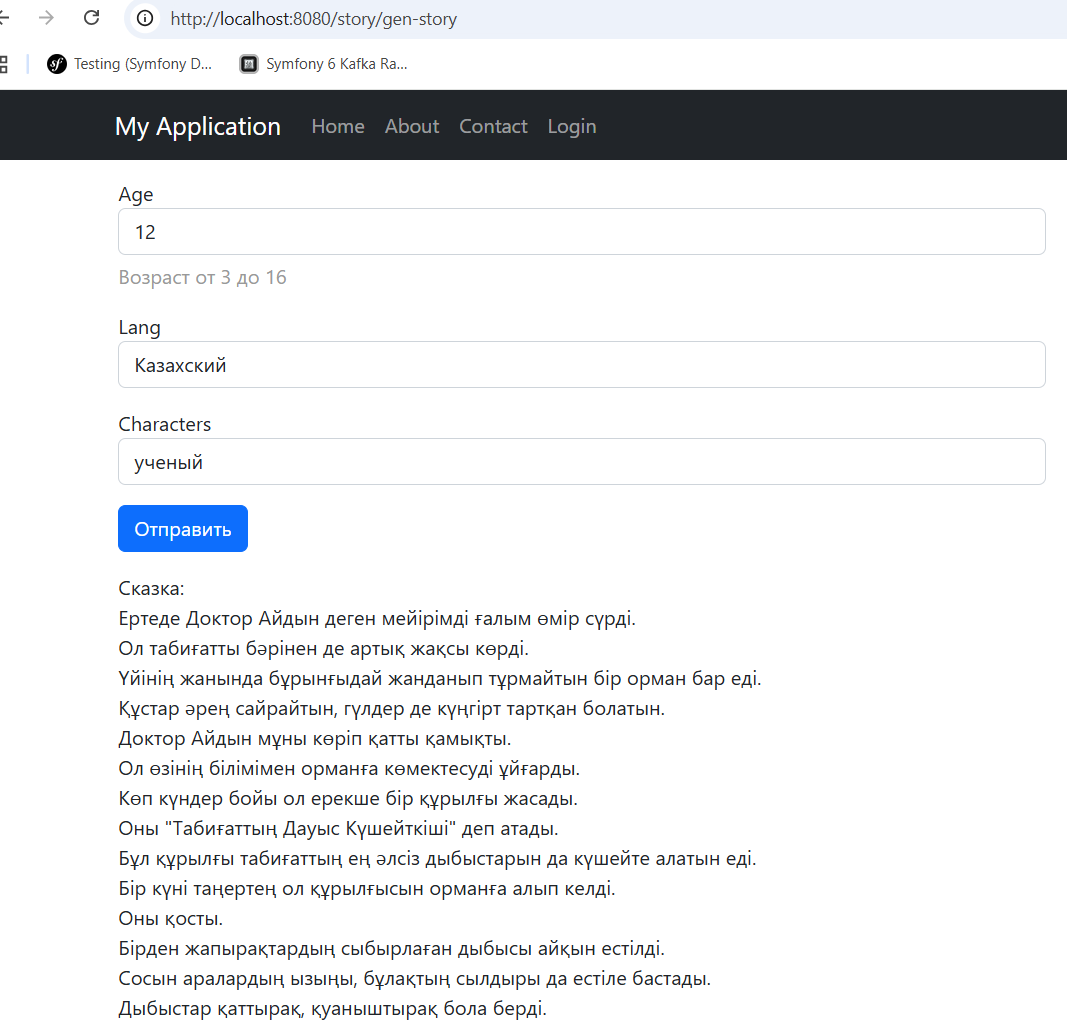
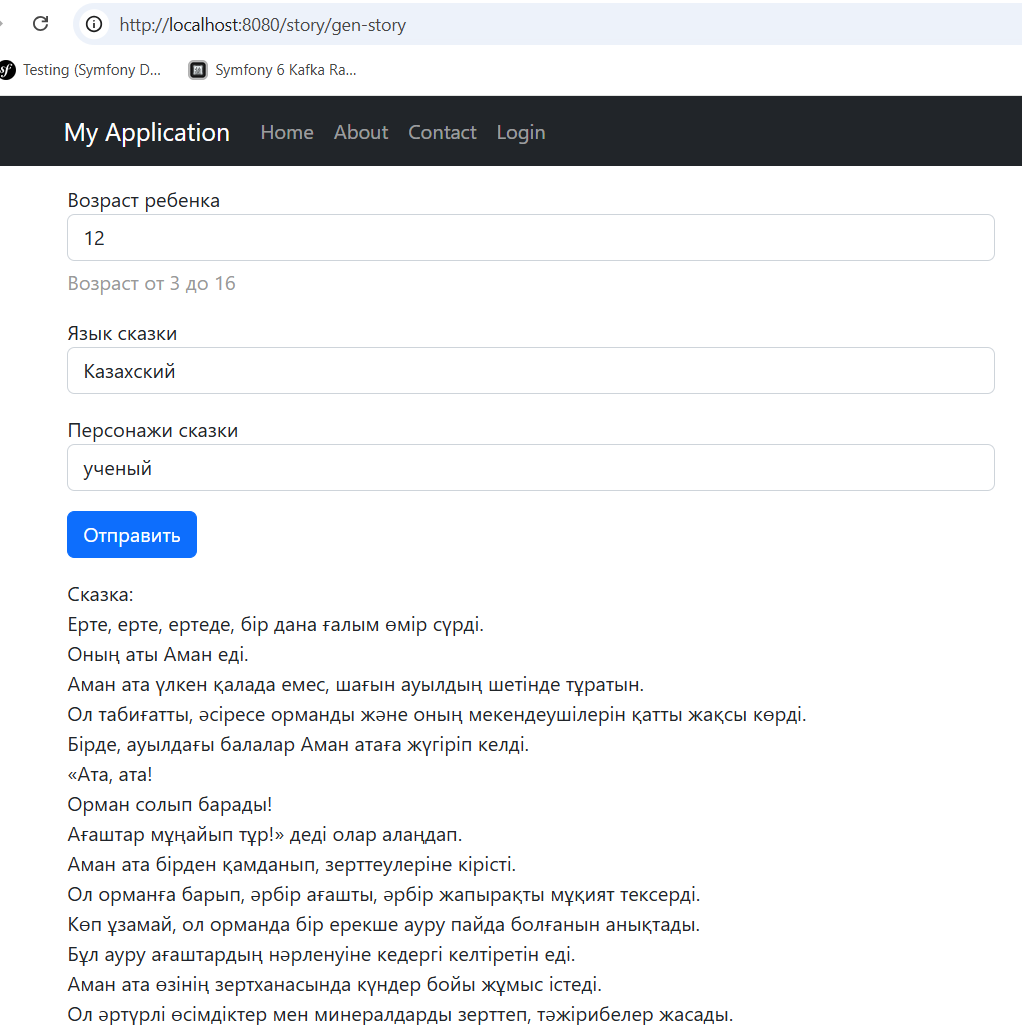
add labels

Changed region(s): [[0.0607, 0.4059, 0.7886, 1.0], [0.0, 0.0, 1.0, 0.281], [0.0607, 0.3122, 0.2123, 0.3746]]

diff --git a/yii2/modules/story/models/Story.php b/yii2/modules/story/models/Story.php
@@ -44,6 +44,15 @@ class Story extends Model
         return ['age'=>'Возраст от 3 до 16'];
     }
 
+    public function attributeLabels()
+    {
+        return [
+            'age' => 'Возраст ребенка',
+            'lang' => 'Язык сказки',
+            'characters' => 'Персонажи сказки',
+        ];
+    }
+    
     public function getStory(): string
     {
         if (!$this->validate()) {
